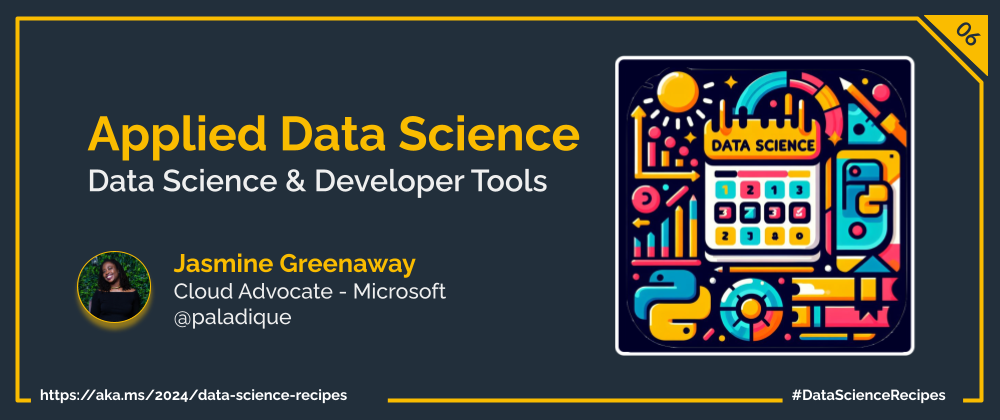
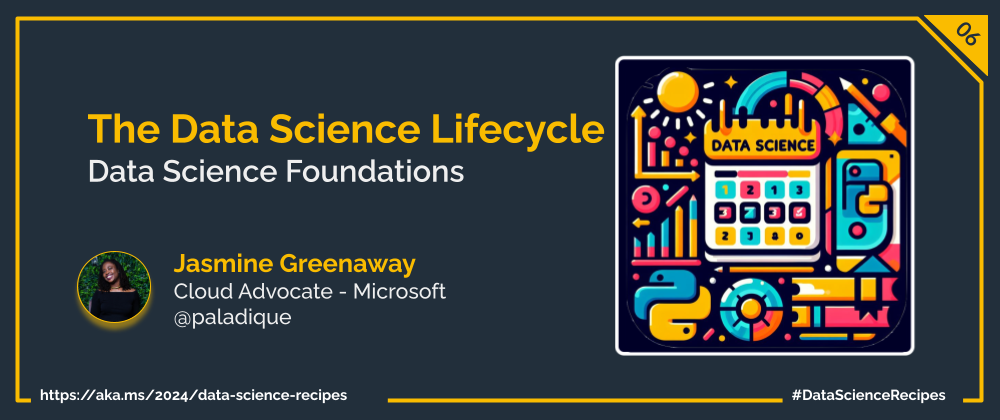
data science lifecycle

Changed region(s): [[0.093, 0.2476, 0.62, 0.4643]]

diff --git a/docs/src/content/docs/week-1/6-data-science-lifecycle.md b/docs/src/content/docs/week-1/6-data-science-lifecycle.md
@@ -1,0 +1,92 @@
+---
+title: 6. The Data Science Lifecycle
+description: Explore the the data science lifecycle, a roadmap for transforming data into meaningful insights.
+---
+
+Welcome to week  `Day 06` of **Foundations of Data Science Week**. Today, we will walk through the data science lifecycle: an essential roadmap for transforming raw data into meaningful insights.
+
+# The Data Science Lifecycle
+
+|![ Sketchnote by [(@sketchthedocs)](https://sketchthedocs.dev) ](.img/sketchnote-ds-lifecycle.png)|
+|:---:|
+| Introduction to the Data Science Lifecycle - _Sketchnote by [@nitya](https://twitter.com/nitya)_ |
+
+Data science isn’t just about crunching numbers; it’s a journey, from problem framing to actionable insights. At its core it's a process, and can be broken down into 5 stages.
+
+## Capturing: What's the problem?
+
+Data scientists must frame the problem they aim to solve clarity on the problem statement is crucial.
+This stage involves defining the problem as a question, understanding its context, and aligning it with organizational goals.
+
+Once the problem has been accurately captured, then next is the process of data collection. Identifying the problem at hand enables data scientists to capture high-quality data, which is the backbone of any successful data science project.
+
+## Processing: Where do we go from here?
+
+The processing stage of the lifecycle is where the magic happens! Here, data is transformed into actionable insights. Most of this step is centered around discovering patterns in the data as well as applying machine learning models. However, there's additional techniques that take place in this step. Some of the tasks performed in this step are:
+
+- **Data Cleaning and Transformation:** Alter, or mold the data to make it uniform without errors or inaccuracies and more suitable for analysis. For instance, converting decimal numbers into currency.
+- **Dimensionality Reduction**: Simplifying the model by removing excessive data that can create uncessacary model complexity.
+- **Sampling**: Capturing a subset of data to make computations faster and manageable.
+- **Model Selection and Tuning**: There's a vast number of options for selecting the right model, which are evaluated using metrics like accuracy, precision, and recall.
+- **Model Training and Evaluation**: Training models on prepared data and evaluating their performance to ensure accuracy and reliability.
+
+## Analysis: What does the data tell us?
+
+![Visualization on the number of bee colonies from 1998 to 2012 ](./img/data-viz-analysis.png)
+
+The analysis stage is where data scientists dive deep into the processed data, and apply data analysis techniques to uncover the hidden patterns, trends, and correlations.
+
+- **Insight Generation**: Extracting and articulating insights from the model outcomes, which involves understanding the why behind the predictions or classifications made by the models.
+- **Data Visualization**: Creating visual representations of the analysis results to communicate findings clearly and effectively.
+- **Exploratory Data Analysis (EDA)**: Technique used  to understand and summarize the main characteristics of a dataset, often visually.
+
+## Communication: How do we share the insights with everyone?
+
+The goal of the communication stage is to bridge the gap between data analysis and actionable insights, making complex findings accessible and understandable to stakeholders not directly involved in the data work. It entails:
+
+**Reporting**: Crafting comprehensive reports that summarize findings in an accessible manner.
+**Presentations**: Conveying insights through presentations, emphasizing key points and actionable recommendations with compelling storytelling.
+
+## Maintenance: How do we ensure longevity?
+
+The maintenance stage focuses on sustaining the project's value over time through:
+
+**Performance Monitoring**: Keeping an eye on the model’s performance to ensure its predictions remain relevant.
+**Data Security**: Keeping the data secure through limiting access to only those who need it, adhering to local laws and regulations.
+**Updating Models**: Refining and retraining models to adapt to new data or changes in underlying patterns.
+**Feedback Loop**: Utilizing stakeholder and user feedback to continuously improve the model’s accuracy and effectiveness.
+
+## What's Next?
+
+Tomorrow is a brief introduction to the tools data scientists use, and details about [Data Science Day](https://aka.ms/Python/DataScienceDay)!
+
+## Learn More
+
+- [Data Science for Beginners: Data Visualization](https://github.com/microsoft/Data-Science-For-Beginners/tree/main/3-Data-Visualization)
+- [Data Science for Beginners: Data Science Lifecycle](https://github.com/microsoft/Data-Science-For-Beginners/tree/main/4-Data-Science-Lifecycle)
+- [The Team Data Science Process lifecycle (TDSP)](https://learn.microsoft.com/azure/architecture/data-science-process/lifecycle)
+
+## More Data Science at Microsoft
+
+- [Check out the Data Science Cloud Skills Challenge](https://aka.ms/python/DataScienceDay/CSC) if you want to go through some self-paced learning! This challenge is active until April 15th, 2024.
+- Join us on Discord at https://aka.ms/python-discord
+- [Data Scientist Certifications](https://learn.microsoft.com/credentials/certifications/roles/data-scientist)
+- [Data Scientist Training Path](https://learn.microsoft.com/training/career-paths/data-scientist)
+
+<!-- for DEV.TO
+---
+title: The Data Science Lifecycle
+published: false
+description: Explore the the data science lifecycle, a roadmap for transforming data into meaningful insights.
+tags: data science, machine learning, python
+series: 14 Days of Data Science
+canonical_url: https://aka.ms/2024/data-science-recipes
+
+cover_image: 
+--- -->
+
+---
+
+![Banner For Week 1 Post 6](./img/banners/DataScienceDay-Foundations-6.png)
+
+---
